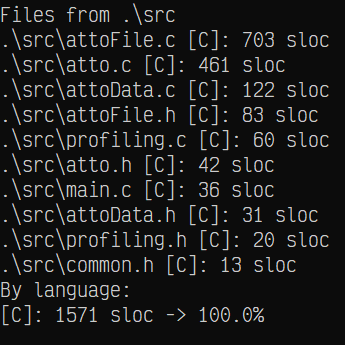
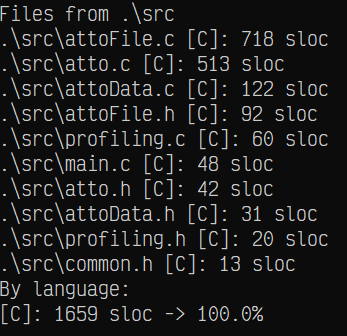
Update sloc

Changed region(s): [[0.0, 0.0, 0.9565, 0.9821], [0.5797, 0.8929, 0.7826, 0.9524]]

diff --git a/README.md b/README.md
@@ -7,11 +7,11 @@
 Yet another text editor ought to be as simple/small as possible (following the KISS principle). It is purely written in C and
 it's designed to be used solely on Microsoft Windows (relies on Win32 API). MinGW-32 GCC has been used as the compiler.
 
-Currently, my other tool [slocWin32](https://github.com/makuke1234/slocWin32) reports 1571 lines of code for this editor:
+Currently, my other tool [slocWin32](https://github.com/makuke1234/slocWin32) reports 1659 lines of code for this editor:
 
 ![SLOC](./images/sloc.png)
 
-With profiling removed (-80 sloc), it amounts to only **1491** lines of code! Very small indeed...
+With profiling removed (-80 sloc), it amounts to only **1579** lines of code! Very small indeed...
 
 
 # Obtaining
